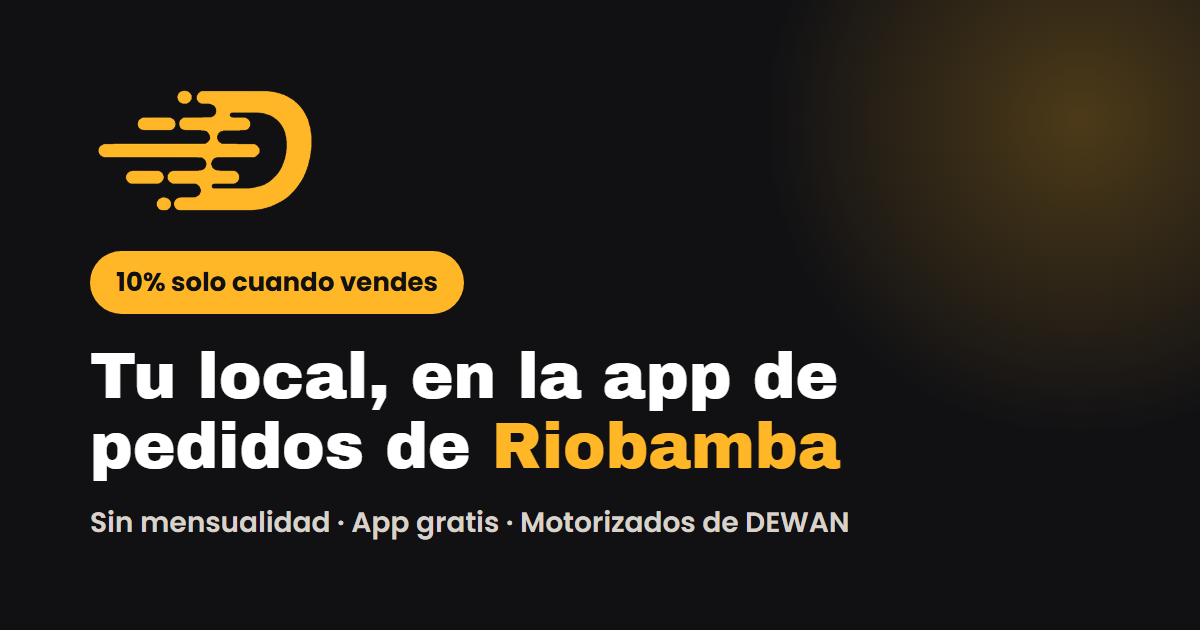
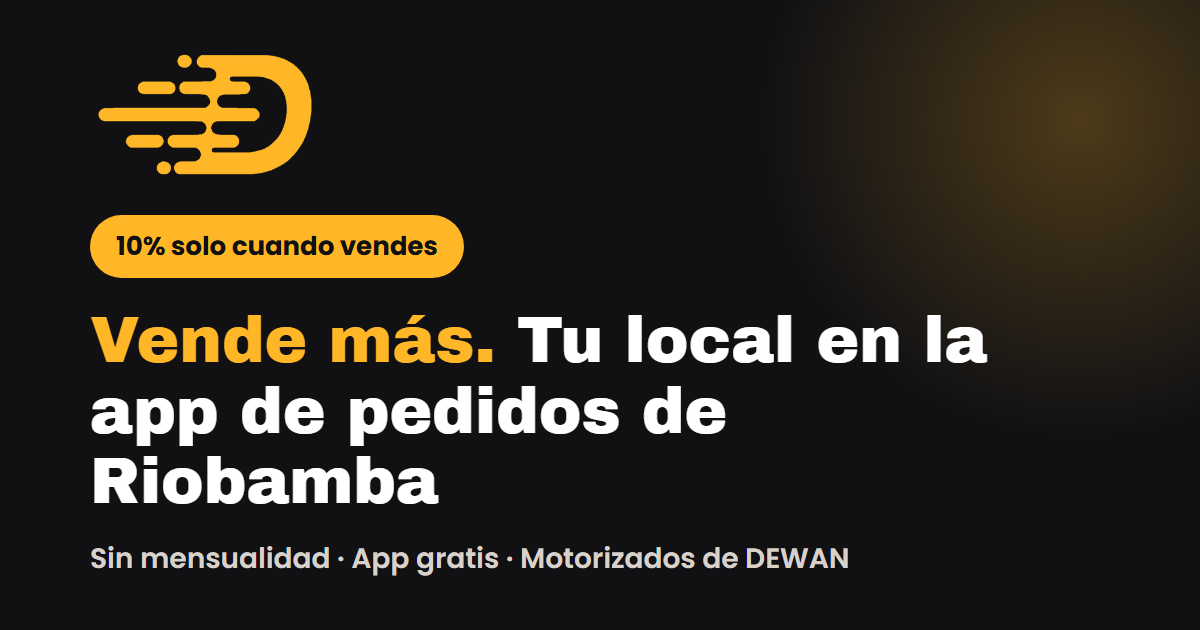
socios: v2 con panel de psicologia de marketing (20 mejoras)
Ancla en ganancia ($9 verde) en vez de costo, fila envio $0.00,
prueba social de aliados reales, screenshots reales de la app en
marcos de telefono, micro-CTA foto de carta, demo extendida a 12s
(aceptado -> preparando -> en camino -> entregado + ondas campana),
CTAs unificados con micro-compromiso "Mi local se llama:", FAQs
condicionales comentadas hasta OK de David, guardas reduced-motion
y pausa de animaciones fuera de viewport.

Changed region(s): [[0.0617, 0.0603, 0.8325, 0.9349]]

diff --git a/socios/index.html b/socios/index.html
@@ -44,14 +44,15 @@
   .hero .micro{margin-top:12px;font-size:13px;color:#9d968e;text-align:center}
 
   /* ── CUENTA CLARA ── */
-  .num-gigante{font-size:clamp(84px,24vw,130px);color:var(--brasa);letter-spacing:-2px}
+  .num-gigante{font-size:clamp(84px,24vw,130px);color:var(--verde);letter-spacing:-2px}
   .num-sub{font-size:20px;font-weight:700;margin-top:2px}
   .recibo{background:#fff;border-radius:18px;padding:26px 24px;margin-top:26px;
     box-shadow:0 10px 30px rgba(43,29,18,.10)}
   .recibo .fila{display:flex;justify-content:space-between;font-size:18px;padding:10px 0}
   .recibo .fila+.fila{border-top:1.5px dashed #E5DCCE}
-  .recibo .fila.total{font-weight:800;font-size:22px;color:var(--verde)}
-  .recibo .fila .menos{color:var(--brasa);font-weight:600}
+  .recibo .fila.total{font-weight:800;font-size:24px;color:var(--verde);background:#EAF7EF;
+    border-radius:10px;padding:12px 10px;margin-top:6px;border-top:0}
+  .recibo .fila .menos{color:var(--gris);font-weight:600}
   .tres{display:flex;flex-wrap:wrap;gap:8px;margin-top:22px}
   .tres span{background:#fff;border:1.5px solid #E5DCCE;border-radius:999px;padding:8px 14px;
     font-size:13.5px;font-weight:600}
@@ -66,6 +67,17 @@
   h2{font-size:clamp(26px,7vw,32px)}
   .kicker{color:var(--brasa);font-weight:800;font-size:13.5px;letter-spacing:1.5px;text-transform:uppercase;margin-bottom:10px}
 
+  /* ── VITRINA (screenshots reales) ── */
+  .vitrina .carril{display:flex;gap:16px;overflow-x:auto;scroll-snap-type:x mandatory;padding:26px 4px 8px;scrollbar-width:none}
+  .vitrina .carril::-webkit-scrollbar{display:none}
+  .vitrina .shot{flex:0 0 min(240px,68vw);scroll-snap-align:center;margin:0}
+  .vitrina .mini-phone{background:#000;border-radius:32px;padding:8px;box-shadow:0 16px 40px rgba(43,29,18,.25)}
+  .vitrina .shot img{width:100%;height:auto;border-radius:24px;display:block}
+  .vitrina figcaption{margin-top:10px;font-size:13.5px;font-weight:600;color:var(--gris);text-align:center}
+
+  /* ── VERLO ANTES DE DECIDIR ── */
+  .btn-sec{background:#fff;color:var(--espresso);border:2px solid var(--espresso);box-shadow:none}
+
   /* ── DEMO APP ── */
   .demo{background:var(--dark);color:#fff;overflow:hidden}
   .demo h2{color:#fff}
@@ -73,29 +85,49 @@
   .phone{width:min(320px,84vw);margin:34px auto 0;background:#000;border-radius:38px;padding:12px;
     box-shadow:0 24px 60px rgba(0,0,0,.55),0 0 0 2px #26262b}
   .screen{background:#17171b;border-radius:28px;overflow:hidden;min-height:430px;display:flex;flex-direction:column}
-  .pedido-prev{margin:0 14px 14px;background:#1a1a1f;border:1px solid #26262b;border-radius:14px;padding:12px 14px;
-    display:flex;justify-content:space-between;align-items:center;font-size:13px;color:#8a8a94}
-  .pedido-prev .ok{color:var(--verde);font-weight:700}
   .app-head{display:flex;align-items:center;gap:8px;padding:14px 16px;background:#111114;border-bottom:1px solid #26262b}
   .app-head img{height:20px}
   .app-head .estado{margin-left:auto;font-size:11px;color:var(--verde);font-weight:700}
   .app-head .estado::before{content:'●  ';font-size:9px}
   .pedido-card{margin:14px;background:#1f1f25;border:1.5px solid var(--ambar);border-radius:16px;padding:16px;
-    animation:llega 7s ease infinite}
-  @keyframes llega{0%{transform:translateY(-30px);opacity:0}6%{transform:translateY(0);opacity:1}96%{opacity:1}100%{opacity:0}}
+    animation:llega 12s ease infinite}
+  @keyframes llega{0%{transform:translateY(-30px);opacity:0}4%{transform:translateY(0);opacity:1}96%{opacity:1}100%{opacity:0}}
   .campana{display:flex;align-items:center;gap:8px;color:var(--ambar);font-weight:800;font-size:14px}
-  .campana .bell{display:inline-block;animation:ring 7s ease infinite;transform-origin:top center}
-  @keyframes ring{6%{transform:rotate(0)}8%{transform:rotate(18deg)}10%{transform:rotate(-14deg)}12%{transform:rotate(10deg)}14%{transform:rotate(-6deg)}16%{transform:rotate(0)}}
+  .campana .bell{display:inline-block;position:relative;animation:ring 12s ease infinite;transform-origin:top center}
+  @keyframes ring{4%{transform:rotate(0)}6%{transform:rotate(18deg)}8%{transform:rotate(-14deg)}10%{transform:rotate(10deg)}12%{transform:rotate(-6deg)}14%{transform:rotate(0)}}
+  .campana .bell::before,.campana .bell::after{content:'';position:absolute;inset:-6px;border:2px solid var(--ambar);
+    border-radius:50%;opacity:0;animation:onda 12s ease-out infinite}
+  .campana .bell::after{animation-delay:.18s}
+  @keyframes onda{4%{transform:scale(.4);opacity:.8}12%{transform:scale(1.8);opacity:0}100%{opacity:0}}
   .pedido-card .items{margin-top:12px;font-size:14.5px;line-height:1.7;color:#EDEAE4}
   .pedido-card .tot{display:flex;justify-content:space-between;margin-top:10px;padding-top:10px;
     border-top:1px dashed #3a3a42;font-weight:800;font-size:16px;color:#fff}
   .tiempos{display:flex;gap:8px;margin-top:14px}
   .tiempos span{flex:1;text-align:center;background:#2a2a31;border-radius:10px;padding:9px 0;font-size:13.5px;font-weight:700;color:#D8D2CB}
-  .tiempos span.on{background:var(--ambar);color:#111;animation:elige 7s ease infinite}
-  @keyframes elige{0%,28%{background:#2a2a31;color:#D8D2CB}34%,100%{background:var(--ambar);color:#111}}
-  .btn-aceptar{margin-top:14px;background:var(--verde);color:#fff;border-radius:12px;text-align:center;
-    padding:14px 0;font-weight:800;font-size:15.5px;animation:pulsa 7s ease infinite}
-  @keyframes pulsa{0%,40%{transform:scale(1)}46%{transform:scale(1.05)}52%{transform:scale(1)}58%{transform:scale(1.05)}64%,100%{transform:scale(1)}}
+  .tiempos span.on{background:var(--ambar);color:#111;animation:elige 12s ease infinite}
+  @keyframes elige{0%,16%{background:#2a2a31;color:#D8D2CB}20%,100%{background:var(--ambar);color:#111}}
+  .btn-stack{position:relative;margin-top:14px}
+  .btn-aceptar{background:var(--verde);color:#fff;border-radius:12px;text-align:center;
+    padding:14px 0;font-weight:800;font-size:15.5px;animation:pulsa 12s ease infinite,swapOut 12s ease infinite}
+  @keyframes pulsa{0%,24%{transform:scale(1)}27%{transform:scale(1.05)}30%{transform:scale(1)}33%{transform:scale(1.05)}36%,100%{transform:scale(1)}}
+  @keyframes swapOut{0%,38%{opacity:1}42%,100%{opacity:0}}
+  .btn-aceptado{position:absolute;inset:0;background:var(--verde);border-radius:12px;text-align:center;
+    padding:14px 0;font-weight:800;font-size:15.5px;color:#fff;opacity:0;animation:swapIn 12s ease infinite}
+  @keyframes swapIn{0%,38%{opacity:0}42%,100%{opacity:1}}
+  .estados{display:flex;gap:6px;margin-top:12px}
+  .estados span{flex:1;text-align:center;background:#2a2a31;border-radius:10px;padding:8px 0;
+    font-size:12px;font-weight:700;color:#8a8a94;white-space:nowrap}
+  .estados .e-prep{animation:chipPrep 12s ease infinite}
+  .estados .e-camino{animation:chipCamino 12s ease infinite}
+  .estados .e-entregado{animation:chipEntregado 12s ease infinite}
+  @keyframes chipPrep{0%,46%{background:#2a2a31;color:#8a8a94}50%,95%{background:var(--ambar);color:#111}98%,100%{background:#2a2a31;color:#8a8a94}}
+  @keyframes chipCamino{0%,64%{background:#2a2a31;color:#8a8a94}68%,95%{background:var(--ambar);color:#111}98%,100%{background:#2a2a31;color:#8a8a94}}
+  @keyframes chipEntregado{0%,82%{background:#2a2a31;color:#8a8a94}86%,95%{background:var(--verde);color:#111}98%,100%{background:#2a2a31;color:#8a8a94}}
+  /* pausa fuera de viewport (JS agrega .play) */
+  .demo .pedido-card,.demo .bell,.demo .bell::before,.demo .bell::after,.demo .tiempos span.on,
+  .demo .btn-aceptar,.demo .btn-aceptado,.demo .estados span{animation-play-state:paused}
+  .demo.play .pedido-card,.demo.play .bell,.demo.play .bell::before,.demo.play .bell::after,.demo.play .tiempos span.on,
+  .demo.play .btn-aceptar,.demo.play .btn-aceptado,.demo.play .estados span{animation-play-state:running}
   .demo .feats{list-style:none;margin-top:30px}
   .demo .feats li{display:flex;gap:10px;align-items:flex-start;font-size:15.5px;color:#EDEAE4;margin-top:12px}
   .demo .feats li::before{content:'✓';color:var(--ambar);font-weight:800}
@@ -133,6 +165,19 @@
   .sticky-cta a{display:flex;align-items:center;justify-content:center;gap:8px;background:var(--wa);color:#fff;
     font-weight:700;font-size:16px;padding:13px 22px;border-radius:12px;text-decoration:none;width:100%;max-width:520px}
   @media(min-width:700px){.wrap{max-width:640px}}
+
+  /* ── micro-interacciones ── */
+  .btn-wa,.sticky-cta a{transition:transform .12s ease}
+  .btn-wa:active,.sticky-cta a:active{transform:scale(.97)}
+  @keyframes nudge{0%{transform:scale(1)}45%{transform:scale(1.04)}100%{transform:scale(1)}}
+  .sticky-cta a.nudge{animation:nudge .5s ease 1}
+
+  /* ── rendimiento / accesibilidad ── */
+  @media(prefers-reduced-motion:reduce){
+    .demo .pedido-card,.demo .bell,.demo .bell::before,.demo .bell::after,.demo .tiempos span.on,
+    .demo .btn-aceptar,.demo .btn-aceptado,.demo .estados span,.sticky-cta a{animation:none!important}
+    .pedido-card{opacity:1;transform:none}
+  }
 </style>
 </head>
 <body>
@@ -142,13 +187,13 @@
   <div class="wrap">
     <img class="logo" src="logo.png" alt="DEWAN">
     <span class="pill">10% solo cuando vendes</span>
-    <h1>Tu local, en la app de pedidos de <em>Riobamba</em></h1>
+    <h1><em>Vende más.</em> Tu local en la app de pedidos de Riobamba</h1>
     <p class="sub">Subimos tu menú con fotos, te suenan los pedidos en una app gratis y nuestros motorizados entregan. Tú solo cocinas.</p>
-    <a class="btn-wa" id="cta1" href="https://wa.me/593962223600?text=Hola%20DEWAN%2C%20quiero%20poner%20mi%20local%20en%20la%20app%20(SOCIO)">
+    <a class="btn-wa" id="cta1" href="https://wa.me/593962223600?text=Hola%20DEWAN%2C%20quiero%20poner%20mi%20local%20en%20la%20app%20(SOCIO).%20Mi%20local%20se%20llama%3A%20">
       <svg width="22" height="22" viewBox="0 0 24 24" fill="#fff"><path d="M12 2a10 10 0 0 0-8.6 15.1L2 22l5-1.3A10 10 0 1 0 12 2zm5.4 14.1c-.2.6-1.3 1.2-1.8 1.2-.5.1-1 .2-3.4-.7-2.9-1.2-4.7-4.1-4.9-4.3-.1-.2-1.1-1.5-1.1-2.9s.7-2 1-2.3c.2-.3.5-.3.7-.3h.5c.2 0 .4 0 .6.5l.9 2.1c.1.2.1.4 0 .6l-.4.6-.5.5c-.2.2-.3.4-.1.7.2.3.8 1.4 1.8 2.2 1.2 1.1 2.3 1.4 2.6 1.6.3.1.5.1.7-.1l1-1.2c.2-.3.4-.2.7-.1l2 1c.3.1.5.2.6.4 0 .1 0 .7-.2 1.3z"/></svg>
       Quiero mi local en DEWAN
     </a>
-    <p class="micro">Te responde una persona real · Sin compromiso</p>
+    <p class="micro">Te responde David, una persona real · Sin compromiso</p>
   </div>
 </header>
 
@@ -156,16 +201,30 @@
 <section id="cuenta">
   <div class="wrap">
     <div class="kicker">La cuenta clara</div>
-    <div class="display num-gigante">10%</div>
-    <div class="num-sub">solo sobre lo que vendes por la app</div>
+    <div class="display num-gigante">$9</div>
+    <div class="num-sub">de cada $10 que vendes, son tuyos. DEWAN cobra el 10% solo cuando vendes.</div>
     <div class="recibo">
       <div class="fila"><span>Vendes</span><b>$10.00</b></div>
       <div class="fila"><span>Comisión DEWAN</span><span class="menos">−$1.00</span></div>
+      <div class="fila"><span>Envío</span><span class="menos">$0.00 — lo paga el cliente</span></div>
       <div class="fila total"><span>Recibes</span><span>$9.00</span></div>
     </div>
     <div class="tres">
       <span>Sin mensualidad</span><span>Sin costo de entrada</span><span>Sin permanencia</span>
     </div>
+    <p style="margin-top:14px;font-size:14.5px;color:var(--gris)"><b>Esa venta es nueva:</b> gente de la app que hoy no conoce tu local. Tus clientes de siempre siguen igual — por ellos no pagas nada.</p>
+  </div>
+</section>
+
+<!-- YA ESTÁN EN DEWAN -->
+<section id="ya-estan">
+  <div class="wrap">
+    <div class="kicker">Ya están aquí</div>
+    <h2>Locales de Riobamba que ya venden en DEWAN</h2>
+    <div class="tres" style="margin-top:18px">
+      <span style="font-size:15px">Happy Pollo</span><span style="font-size:15px">Sr. Moro</span><span style="font-size:15px">Pollo Ejecutivo</span><span style="font-size:15px">Air Wings</span><span style="font-size:15px">Buuba Té</span><span style="font-size:15px">Mr. Willy's</span>
+    </div>
+    <p style="margin-top:14px;font-size:14.5px;color:var(--gris)">Compruébalo tú mismo: ábrelos en <b>pedir.dewansas.com</b></p>
   </div>
 </section>
 
@@ -189,6 +248,22 @@
   </div>
 </section>
 
+<!-- VITRINA: lo que ve el cliente -->
+<section class="vitrina">
+  <div class="wrap">
+    <div class="kicker">Lo que ve el cliente</div>
+    <h2>Así te ven los que piden</h2>
+    <p style="margin-top:12px;font-size:16px;color:var(--gris)">Pantallas reales de la app: tu local con fotos, en primera fila y a un toque de pedir.</p>
+  </div>
+  <div class="wrap carril-wrap">
+    <div class="carril">
+      <figure class="shot"><div class="mini-phone"><img src="img/app-home.webp" alt="Portada de la app DEWAN con fotos de comida" width="520" height="1125" loading="lazy" decoding="async"></div><figcaption>La portada de la app: tu comida en fotos</figcaption></figure>
+      <figure class="shot"><div class="mini-phone"><img src="img/app-aliados.webp" alt="Aliados en primera fila de la app DEWAN con sello Aliado" width="520" height="1045" loading="lazy" decoding="async"></div><figcaption>Primera fila con sello ⭐ Aliado</figcaption></figure>
+      <figure class="shot"><div class="mini-phone"><img src="img/app-local.webp" alt="Menú de un local en DEWAN con fotos y precios, listo para pedir" width="520" height="1125" loading="lazy" decoding="async"></div><figcaption>Tu menú completo, listo para pedir</figcaption></figure>
+    </div>
+  </div>
+</section>
+
 <!-- DEMO APP -->
 <section class="demo">
   <div class="wrap">
@@ -202,12 +277,15 @@
         <div class="items">2× Almuerzo completo<br>1× Jugo de mora</div>
         <div class="tot"><span>Tu venta</span><span>$9.50</span></div>
         <div class="tiempos"><span>10'</span><span class="on">15'</span><span>20'</span><span>30'</span></div>
-        <div class="btn-aceptar">ACEPTAR PEDIDO</div>
+        <div class="btn-stack">
+          <div class="btn-aceptar">ACEPTAR PEDIDO</div>
+          <div class="btn-aceptado">✓ ACEPTADO · 15 min</div>
+        </div>
+        <div class="estados"><span class="e-prep">⏱ Preparando</span><span class="e-camino">🛵 En camino</span><span class="e-entregado">✓ Entregado</span></div>
       </div>
-      <div class="pedido-prev"><span>Pedido anterior</span><span class="ok">✓ Entregado</span></div>
     </div></div>
     <ul class="feats">
-      <li>Cronómetro para cada pedido: el cliente sabe que viene en camino</li>
+      <li>El cliente ve cada paso: preparando, en camino, entregado. Nadie te llama a preguntar</li>
       <li>Tus ventas del día siempre visibles en la app</li>
       <li>Funciona en tu celular y en tu computadora</li>
       <li>Trae tutorial paso a paso — no necesitas saber de tecnología</li>
@@ -228,6 +306,17 @@
       <li><span class="c">✓</span><div>Cupones para tus clientes, pagados por DEWAN<small>Promociones que traen pedidos sin costo para ti</small></div></li>
       <li><span class="c">✓</span><div>Soporte directo por WhatsApp<small>Hablas con una persona real, no con un robot</small></div></li>
     </ul>
+    <p style="margin-top:20px;font-size:15.5px;font-weight:700;text-align:center">Todo esto va dentro del mismo 10%. Sin cobros aparte, sin letra pequeña.</p>
+  </div>
+</section>
+
+<!-- VERLO ANTES DE DECIDIR -->
+<section id="verlo">
+  <div class="wrap">
+    <div class="kicker">Sin firmar nada</div>
+    <h2>¿Quieres verlo antes de decidir?</h2>
+    <p style="margin-top:14px;font-size:15.5px;color:var(--gris);line-height:1.65">Mándanos una foto de tu carta y te enseñamos cómo se vería tu local dentro de la app, con tus platos y tus precios. Gratis y sin compromiso — tú decides después de verlo.</p>
+    <a class="btn-wa btn-sec" href="https://wa.me/593962223600?text=Hola%20DEWAN%2C%20les%20mando%20la%20foto%20de%20mi%20carta%20para%20ver%20c%C3%B3mo%20se%20ver%C3%ADa%20mi%20local%20(SOCIO)">Mandar la foto de mi carta</a>
   </div>
 </section>
 
@@ -236,6 +325,10 @@
   <div class="wrap">
     <div class="kicker">Preguntas de dueño a dueño</div>
     <h2>Lo que todos nos preguntan</h2>
+    <!-- PENDIENTE OK DAVID (flujo de cobro — elegir variante y descomentar como primer details open):
+    VARIANTE A: <details open><summary>¿Cuándo cobro mi plata?</summary><p>El mismo día. El motorizado te paga tu venta al retirar el pedido. El 10% se liquida aparte, con el detalle de cada pedido visible en tu app.</p></details>
+    VARIANTE B: <details open><summary>¿Cuándo cobro mi plata?</summary><p>Tu venta la recibes [momento real confirmado]. En la app ves día por día qué vendiste y cuánto recibes.</p></details>
+    -->
     <details open>
       <summary>¿Cuánto cuesta entrar?</summary>
       <p>Nada. Ni inscripción, ni mensualidad, ni equipos. Solo pagas el 10% de lo que vendas por la app. Si no vendes, no pagas.</p>
@@ -260,6 +353,14 @@
       <summary>¿Qué necesito para empezar?</summary>
       <p>Tu carta (una foto basta), tu horario, la ubicación del local y un WhatsApp de contacto. Nosotros armamos todo.</p>
     </details>
+    <details>
+      <summary>¿En cuánto tiempo está mi local en la app?</summary>
+      <p>Rápido. Nos mandas tu carta y tu horario, nosotros armamos todo y tu local puede estar en vivo esta misma semana.</p>
+    </details>
+    <!-- PENDIENTE OK DAVID (responsabilidad de entrega + exclusividad):
+    <details><summary>¿Y si algo pasa con la entrega?</summary><p>Desde que el motorizado retira tu pedido, la entrega es responsabilidad de DEWAN. Cualquier reclamo del cliente lo atendemos nosotros por WhatsApp.</p></details>
+    <details><summary>¿Tengo que trabajar solo con DEWAN?</summary><p>No. No pedimos exclusividad. Tu local es tuyo y tus canales siguen igual.</p></details>
+    -->
   </div>
 </section>
 
@@ -268,10 +369,12 @@
   <div class="wrap">
     <h2>Tu local puede estar en vivo esta misma semana</h2>
     <p>Escríbenos y armamos tu menú hoy mismo.</p>
-    <a class="btn-wa" href="https://wa.me/593962223600?text=Hola%20DEWAN%2C%20quiero%20poner%20mi%20local%20en%20la%20app%20(SOCIO)">
+    <p>DEWAN es un emprendimiento riobambeño. El que te contesta el WhatsApp conoce tus calles y tus clientes, porque también son los suyos.</p>
+    <a class="btn-wa" href="https://wa.me/593962223600?text=Hola%20DEWAN%2C%20quiero%20poner%20mi%20local%20en%20la%20app%20(SOCIO).%20Mi%20local%20se%20llama%3A%20">
       <svg width="22" height="22" viewBox="0 0 24 24" fill="#fff"><path d="M12 2a10 10 0 0 0-8.6 15.1L2 22l5-1.3A10 10 0 1 0 12 2zm5.4 14.1c-.2.6-1.3 1.2-1.8 1.2-.5.1-1 .2-3.4-.7-2.9-1.2-4.7-4.1-4.9-4.3-.1-.2-1.1-1.5-1.1-2.9s.7-2 1-2.3c.2-.3.5-.3.7-.3h.5c.2 0 .4 0 .6.5l.9 2.1c.1.2.1.4 0 .6l-.4.6-.5.5c-.2.2-.3.4-.1.7.2.3.8 1.4 1.8 2.2 1.2 1.1 2.3 1.4 2.6 1.6.3.1.5.1.7-.1l1-1.2c.2-.3.4-.2.7-.1l2 1c.3.1.5.2.6.4 0 .1 0 .7-.2 1.3z"/></svg>
-      Escribir al WhatsApp
+      Quiero mi local en DEWAN
     </a>
+    <p style="margin-top:12px;font-size:13px;color:#FFD9C8">Te responde una persona real · Sin compromiso</p>
     <p class="tel">o guarda el número: <b>[phone redacted]</b></p>
     <img class="logo" src="logo.png" alt="DEWAN">
   </div>
@@ -279,19 +382,33 @@
 
 <!-- STICKY CTA -->
 <div class="sticky-cta" id="sticky">
-  <a href="https://wa.me/593962223600?text=Hola%20DEWAN%2C%20quiero%20poner%20mi%20local%20en%20la%20app%20(SOCIO)">
+  <a href="https://wa.me/593962223600?text=Hola%20DEWAN%2C%20quiero%20poner%20mi%20local%20en%20la%20app%20(SOCIO).%20Mi%20local%20se%20llama%3A%20">
     <svg width="20" height="20" viewBox="0 0 24 24" fill="#fff"><path d="M12 2a10 10 0 0 0-8.6 15.1L2 22l5-1.3A10 10 0 1 0 12 2zm5.4 14.1c-.2.6-1.3 1.2-1.8 1.2-.5.1-1 .2-3.4-.7-2.9-1.2-4.7-4.1-4.9-4.3-.1-.2-1.1-1.5-1.1-2.9s.7-2 1-2.3c.2-.3.5-.3.7-.3h.5c.2 0 .4 0 .6.5l.9 2.1c.1.2.1.4 0 .6l-.4.6-.5.5c-.2.2-.3.4-.1.7.2.3.8 1.4 1.8 2.2 1.2 1.1 2.3 1.4 2.6 1.6.3.1.5.1.7-.1l1-1.2c.2-.3.4-.2.7-.1l2 1c.3.1.5.2.6.4 0 .1 0 .7-.2 1.3z"/></svg>
-    Quiero mi local en DEWAN — 10%
+    Quiero mi local en DEWAN
   </a>
 </div>
 
 <script>
-  // Muestra el CTA fijo cuando el botón del hero ya no se ve
+  // Muestra el CTA fijo cuando el botón del hero ya no se ve (+ nudge una sola vez)
   var cta1 = document.getElementById('cta1'), sticky = document.getElementById('sticky');
   if ('IntersectionObserver' in window) {
+    var nudged = false, stickyLink = sticky.querySelector('a');
     new IntersectionObserver(function(e){
-      sticky.classList.toggle('show', !e[0].isIntersecting);
+      var show = !e[0].isIntersecting;
+      sticky.classList.toggle('show', show);
+      if (show && !nudged) {
+        nudged = true;
+        stickyLink.classList.add('nudge');
+        stickyLink.addEventListener('animationend', function(){ stickyLink.classList.remove('nudge'); }, { once: true });
+      }
     }).observe(cta1);
+    // Corre la demo solo cuando está en pantalla
+    var demo = document.querySelector('.demo');
+    new IntersectionObserver(function(e){
+      demo.classList.toggle('play', e[0].isIntersecting);
+    }).observe(document.querySelector('.phone'));
+  } else {
+    document.querySelector('.demo').classList.add('play');
   }
 </script>
 </body>

diff --git a/socios/og.html b/socios/og.html
@@ -22,7 +22,7 @@
   <div class="col">
     <img class="logo" src="logo.png" alt="DEWAN">
     <span class="pill">10% solo cuando vendes</span>
-    <h1>Tu local, en la app de pedidos de <em>Riobamba</em></h1>
+    <h1><em>Vende más.</em> Tu local en la app de pedidos de Riobamba</h1>
     <p>Sin mensualidad · App gratis · Motorizados de DEWAN</p>
   </div>
 </body>